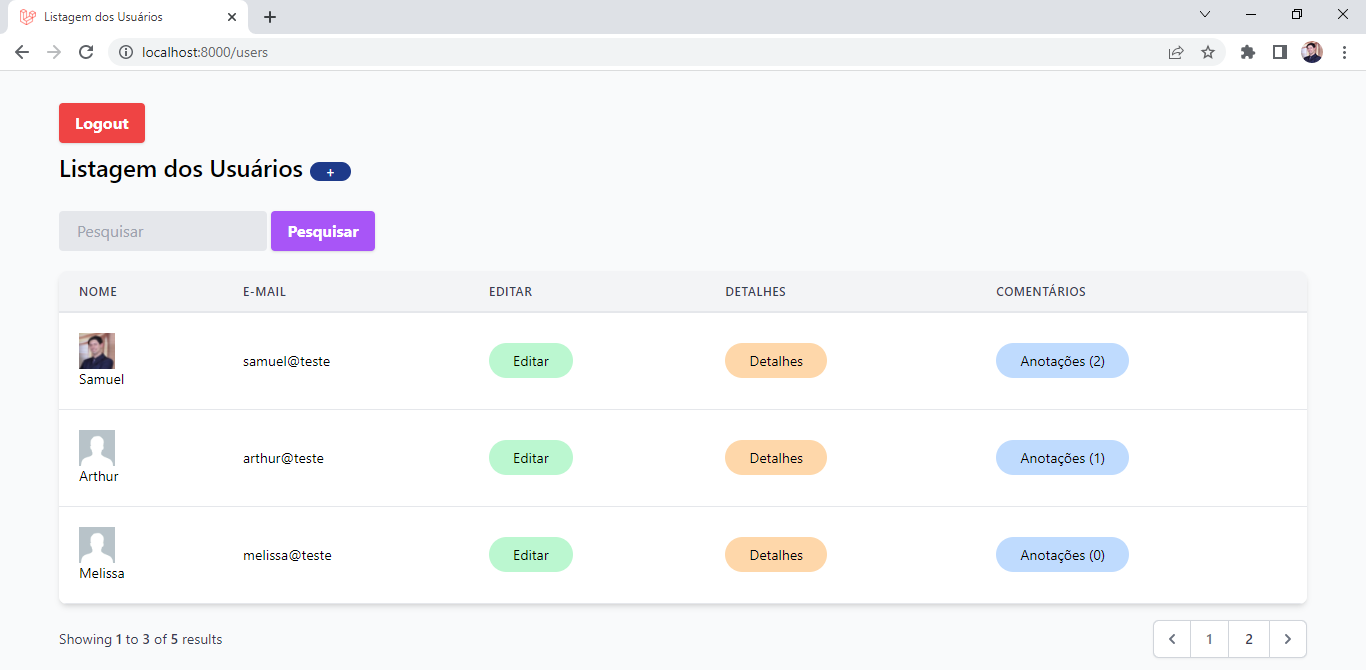
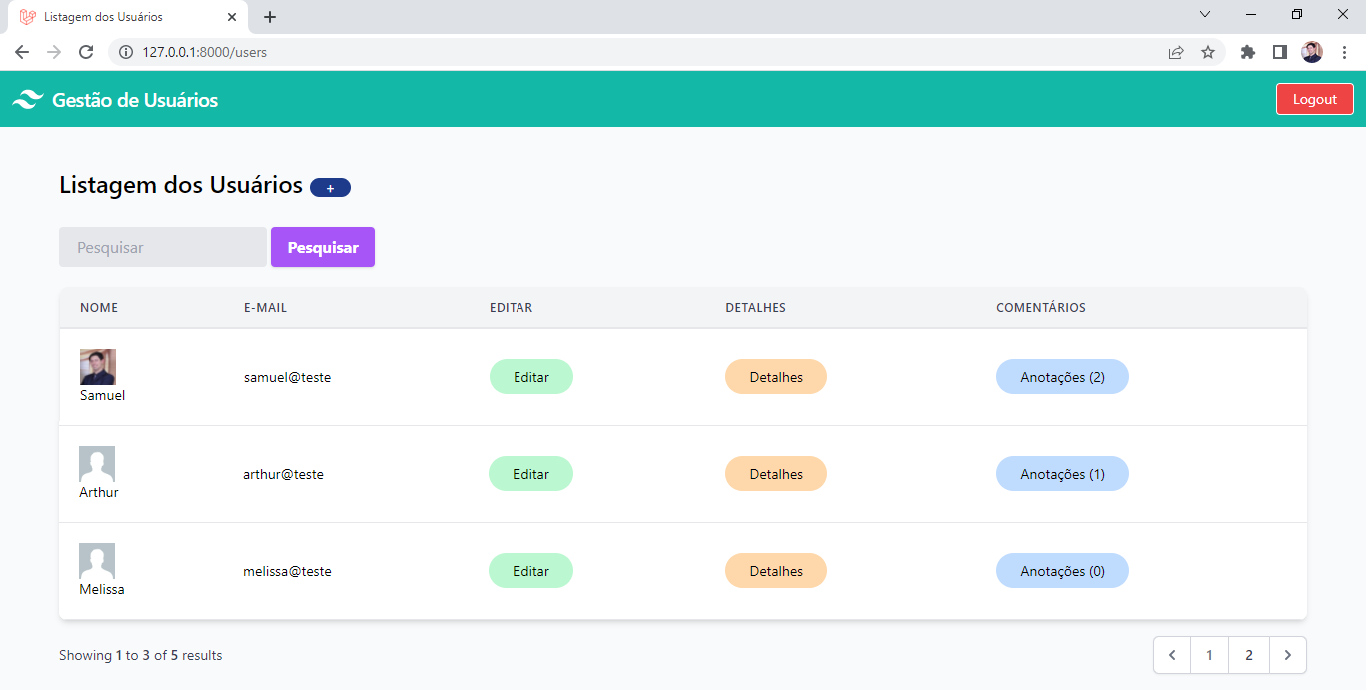
Adicionado menu e incorporado botão de 'Logout'

diff --git a/resources/views/layouts/app.blade.php b/resources/views/layouts/app.blade.php
@@ -8,15 +8,28 @@
     <script src="https://cdn.tailwindcss.com"></script>
 </head>
 <body class="bg-gray-50">
+<nav class="flex items-center justify-between flex-wrap bg-teal-500 p-3">
+    <div class="flex items-center flex-shrink-0 text-white mr-6">
+        <svg class="fill-current h-8 w-8 mr-2" width="54" height="54" viewBox="0 0 54 54"
+             xmlns="http://www.w3.org/2000/svg">
+            <path d="M13.5 22.1c1.8-7.2 6.3-10.8 13.5-10.8 10.8 0 12.15 8.1 17.55 9.45 3.6.9 6.75-.45 9.45-4.05-1.8 7.2-6.3 10.8-13.5 10.8-10.8 0-12.15-8.1-17.55-9.45-3.6-.9-6.75.45-9.45 4.05zM0 38.3c1.8-7.2 6.3-10.8 13.5-10.8 10.8 0 12.15 8.1 17.55 9.45 3.6.9 6.75-.45 9.45-4.05-1.8 7.2-6.3 10.8-13.5 10.8-10.8 0-12.15-8.1-17.55-9.45-3.6-.9-6.75.45-9.45 4.05z"/>
+        </svg>
+        <span class="font-semibold text-xl tracking-tight">Gestão de Usuários</span>
+    </div>
+    <div class="w-full block flex-grow lg:flex lg:items-center lg:w-auto">
+        <div class="text-sm lg:flex-grow"></div>
+        <div>
+            <form action="{{ route('logout') }}" method="post">
+                @csrf
+                <button type="submit"
+                        class="inline-block text-sm px-4 py-2 leading-none text-white bg-red-500 border rounded border-white mt-4 lg:mt-0">
+                    Logout
+                </button>
+            </form>
+        </div>
+    </div>
+</nav>
 <div class="container mx-auto px-4 py-8">
-    <form action="{{ route('logout') }}" method="post">
-        @csrf
-        <button type="submit"
-                class="shadow bg-red-500 hover:bg-red-400 focus:shadow-outline focus:outline-none text-white font-bold py-2 px-4 rounded">
-            Logout
-        </button>
-    </form>
-
     @yield('content')
 </div>
 </body>
